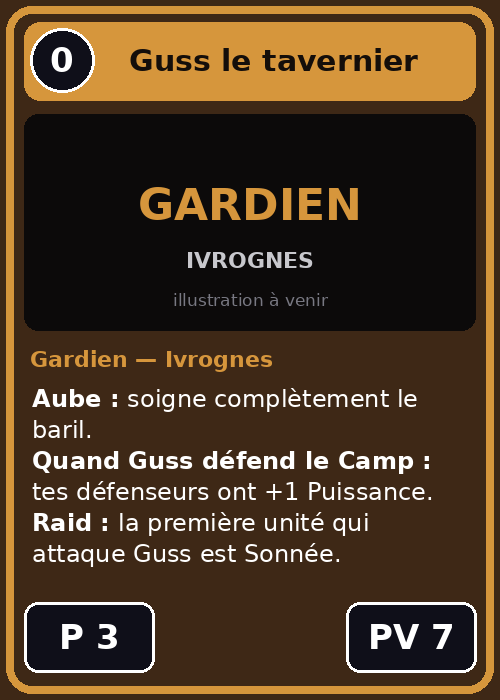
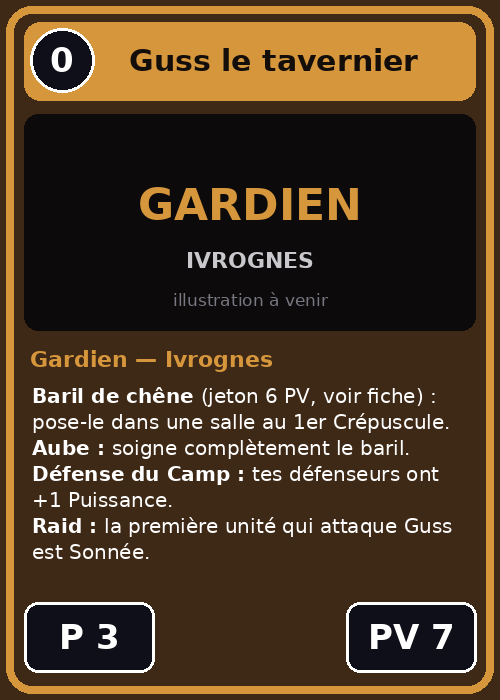
Gardien = identité : Baril et Livre de recettes deviennent des fiches (jetons) liées au Gardien ; Rosa, Belladone, Sylve ; plateau : Camp entre Expédition et Gardien, piles à côté de leur zone
Claude-Session: https://claude.ai/code/session_01Ei1ETxKFF4cSM4RwXRQ4jQ

Changed region(s): [[0.06, 0.54, 0.9, 0.81]]

diff --git a/tools/generate.py b/tools/generate.py
@@ -49,13 +49,7 @@ CARDS = [
       "**Maître de guilde** : à chaque tour, si le baril est endommagé, Guss le soigne complètement. "
       "**Patron du bar** : quand Guss défend le Camp, tes défenseurs ont +1 Puissance. "
       "**Coup de torchon** : la première unité qui attaque Guss pendant un raid est Sonnée.",
-      3, 7, legal=1),
-    C("baril", "Le baril", "Baril", 0, IVR,
-      "Un seul baril, posé dans une salle au premier Crépuscule ; ne rentre jamais au Camp. "
-      "**Aura** : tes unités de sa salle ont +1 Puissance. **Encaisser** : il peut prendre les dégâts "
-      "d'une de tes unités de sa salle. **Tirer une pinte** : 1 fois par tour, retire-lui 1 PV pour piocher "
-      "1 carte de la Cave. **Explosion** à 0 PV : 1 dégât à tout ce qui est dans la salle.",
-      0, 6, legal=1),
+      3, 7, legal=1, tokens=["baril-chene"]),
     # --- Ivrognes : unités ---
     C("habitue", "Habitué du bar", "Unite", 1, IVR, "**Près du baril** : +1 PV.", 1, 2),
     C("serveuse", "Serveuse", "Unite", 2, IVR, "**Arrivée** : une de tes unités gagne +1/+1.", 1, 3),
@@ -102,16 +96,7 @@ CARDS = [
       "garde-en 2 sous Cernun (panier de 4 max), remets le 3e dans le Garde-manger et mélange. Chaque monstre tué par tes unités : "
       "+1 ingrédient. **Cuisine** : au début du Crépuscule, 1 recette du Livre. "
       "**Bosquet** : quand Cernun défend le Camp, invoque 2 Pousses qui défendent avec lui.",
-      2, 7, legal=1, tokens=["pousse"]),
-    C("livre-recettes", "Livre de recettes", "Recettes", 0, DRU,
-      "1 recette par tour, au début du Crépuscule ; effet jusqu'à la fin du tour. Les ingrédients "
-      "retournent dans le Garde-manger, puis mélange.\n"
-      "**Soupe de racines** (Racine + Champignon) : tes unités +2 PV. "
-      "\n**Tarte aux baies** (Baies + Miel) : tes unités +1 Puissance. "
-      "\n**Tisane des bois** (Herbes + Miel) : soigne tes unités d'une salle, elles ne peuvent pas être Sonnées. "
-      "\n**Poêlée des esprits** (Champignon + Herbes + Baies) : 1 Pousse dans chaque salle où tu as une unité. "
-      "\n**Banquet de Cernun** (4 ingrédients différents) : tes unités +2/+2.",
-      legal=1, tokens=["pousse"]),
+      2, 7, legal=1, tokens=["livre-ancien", "pousse"]),
     # --- Druides : le Garde-manger (Réserve de faction) ---
     C("champignon", "Champignon", "Ingredient", 0, DRU, "**Ingrédient**. Seul, il ne fait rien : il se cuisine avec le Livre de recettes."),
     C("baies", "Baies", "Ingredient", 0, DRU, "**Ingrédient**. Seules, elles ne font rien : elles se cuisinent avec le Livre de recettes."),
@@ -167,10 +152,23 @@ CARDS = [
       "Frappe d'abord la guilde qui a le plus de trésors.", 8, 20, legal=False, token=True),
 ]
 
-# Textes de cartes (règles d'écriture : une ligne par effet, le moment en gras)
+
+# --- Gardiens supplémentaires et fiches (jetons, pas dans les decks) ---
+CARDS += [
+    C("rosa", "Rosa la brasseuse", "Gardien", 0, IVR, "", 3, 6, legal=1, tokens=["baril-explosif"]),
+    C("belladone", "Belladone", "Gardien", 0, DRU, "", 1, 6, legal=1, tokens=["livre-empoisonneur"]),
+    C("sylve", "Sylve", "Gardien", 0, DRU, "", 2, 5, legal=1, tokens=["livre-secret", "loup"]),
+    C("baril-chene", "Baril de chêne", "Baril", 0, IVR, "", 0, 6, legal=False, token=True),
+    C("baril-explosif", "Baril explosif", "Baril", 0, IVR, "", 0, 4, legal=False, token=True),
+    C("livre-ancien", "Livre ancien", "Recettes", 0, DRU, "", legal=False, token=True),
+    C("livre-empoisonneur", "Livre empoisonneur", "Recettes", 0, DRU, "", legal=False, token=True),
+    C("livre-secret", "Livre secret", "Recettes", 0, DRU, "", legal=False, token=True),
+]
+_BAR = ("**Aura :** tes unités de sa salle ont +1 Puissance.\n**Encaisser :** prend les dégâts d'une de tes unités de sa salle.\n"
+        "**Tirer une pinte :** 1 fois par tour, perds 1 PV pour piocher 1 carte de la Cave.\n")
+
+# Textes de cartes (une ligne par effet, le moment en gras)
 TEXTS = {
- "guss": "**Aube :** soigne complètement le baril.\n**Quand Guss défend le Camp :** tes défenseurs ont +1 Puissance.\n**Raid :** la première unité qui attaque Guss est Sonnée.",
- "baril": "**Aura :** tes unités de sa salle ont +1 Puissance.\n**Encaisser :** prend les dégâts d'une de tes unités de sa salle.\n**Tirer une pinte :** 1 fois par tour, perds 1 PV pour piocher 1 carte de la Cave.\n**À 0 PV :** 1 dégât à tout ce qui est dans la salle.\nUn seul baril ; il ne rentre jamais au Camp.",
  "habitue": "**Près du baril :** +1 PV.",
  "serveuse": "**Arrivée :** une de tes unités gagne +1/+1.",
  "poker": "**Bluff :** se pose face cachée au Midi, révélée au Crépuscule.",
@@ -190,8 +188,7 @@ TEXTS = {
  "vin-chaud": "**Alcool.** Soigne complètement l'unité.",
  "absinthe": "**Alcool.** +3 Puissance.\n**Ton tour suivant :** l'unité perd 2 PV.",
  "liqueur-feu": "**Alcool.**\n**Dernier souffle :** 2 dégâts à chaque ennemi de sa salle.",
- "cernun": "**Aube :** Cueillette. Pioche 3 cartes de ta Réserve, garde-en 2 sous Cernun (4 max), remets l'autre et mélange.\n**Crépuscule :** cuisine 1 recette du Livre.\n**Monstre tué :** +1 ingrédient.\n**Quand il défend le Camp :** invoque 2 Pousses.",
- "livre-recettes": "**Crépuscule :** 1 recette par tour, effet ce tour. Les ingrédients retournent dans la Réserve (mélange).\n**Soupe de racines** (Racine + Champignon) : tes unités +2 PV.\n**Tarte aux baies** (Baies + Miel) : tes unités +1 Puissance.\n**Tisane des bois** (Herbes + Miel) : soigne une salle, ses unités ne sont pas Sonnées.\n**Poêlée des esprits** (Champignon + Herbes + Baies) : 1 Pousse par salle où tu as une unité.\n**Banquet de Cernun** (4 ingrédients différents) : tes unités +2/+2.",
+ "cernun": "**Livre ancien** (fiche liée) : recettes de buff.\n**Aube :** Cueillette. Pioche 3 ingrédients, défausse-en 1 dans ta Réserve (mélange), garde 2 sous Cernun (4 max).\n**Crépuscule :** cuisine 1 recette.\n**Monstre tué :** +1 ingrédient.\n**Défense du Camp :** invoque 2 Pousses.",
  "champignon": "**Ingrédient.** Seul, il ne fait rien : cuisine-le avec le Livre.",
  "baies": "**Ingrédient.** Seules, elles ne font rien : cuisine-les avec le Livre.",
  "racine": "**Ingrédient.** Seule, elle ne fait rien : cuisine-la avec le Livre.",
@@ -214,8 +211,18 @@ TEXTS = {
  "eveil-foret": "Invoque une Pousse dans chaque salle.\nTes unités gagnent +1/+1 ce tour.\nPioche 1 ingrédient.\n**Signature :** 1 exemplaire max.",
  "pousse": "**Jeton.** Compte dans la limite de 3 unités par salle.",
  "loup": "**Jeton.** Compte dans la limite de 3 unités par salle.",
- "jet-chaises": "2 dégâts à une cible, qui est Sonnée."
+ "jet-chaises": "2 dégâts à une cible, qui est Sonnée.",
+ "rosa": "**Baril explosif** (jeton 4 PV, voir fiche) : pose-le dans une salle au 1er Crépuscule.\n**Aube :** soigne 2 PV au baril.\n**Tirer une pinte :** regarde 2 cartes de la Cave, prends-en 1, remets l'autre et mélange.\n**Défense du Camp :** 1 dégât à chaque attaquant.",
+ "belladone": "**Livre empoisonneur** (fiche liée) : recettes qui blessent.\n**Aube :** Cueillette. Pioche 2 ingrédients, garde-les sous Belladone (4 max).\n**Crépuscule :** cuisine 1 recette.\n**Défense du Camp :** la première unité qui attaque Belladone est Sonnée.",
+ "sylve": "**Livre secret** (fiche liée) : chaque recette donne Rapide.\n**Aube :** Cueillette. Pioche 2 ingrédients, garde-les sous Sylve (4 max).\n**Midi :** choisis ta recette face cachée.\n**Crépuscule :** révèle-la et cuisine-la.",
+ "livre-ancien": "**Crépuscule :** 1 recette par tour, effet ce tour. Les ingrédients retournent dans la Réserve (mélange).\n**Soupe de racines** (Racine + Champignon) : tes unités +2 PV.\n**Tarte aux baies** (Baies + Miel) : tes unités +1 Puissance.\n**Tisane des bois** (Herbes + Miel) : soigne une salle, ses unités ne sont pas Sonnées.\n**Poêlée des esprits** (Champignon + Herbes + Baies) : 1 Pousse par salle où tu as une unité.\n**Banquet de Cernun** (4 ingrédients différents) : tes unités +2/+2.",
+ "livre-empoisonneur": "**Crépuscule :** 1 recette par tour. Les ingrédients retournent dans la Réserve (mélange).\n**Sève amère** (Racine + Champignon) : 1 dégât à chaque ennemi d'une salle.\n**Brouet de baies** (Baies + Miel) : 2 dégâts à une cible, qui est Sonnée.\n**Fumée d'herbes** (Herbes + Champignon) : les ennemis d'une salle sont Sonnés.\n**Philtre noir** (3 ingrédients différents) : 2 dégâts à chaque ennemi d'une salle.",
+ "livre-secret": "**Midi :** 1 recette face cachée. **Crépuscule :** révèle-la et cuisine-la. Les ingrédients retournent dans la Réserve (mélange).\n**Pain de route** (Racine + Miel) : tes unités gagnent Rapide.\n**Infusion vive** (Herbes + Baies) : Rapide et +1 Puissance.\n**Festin de l'ombre** (3 ingrédients différents) : Rapide et +1/+1.\n**Rapide :** une unité peut changer de salle après son combat.",
+ "guss": "**Baril de chêne** (jeton 6 PV, voir fiche) : pose-le dans une salle au 1er Crépuscule.\n**Aube :** soigne complètement le baril.\n**Défense du Camp :** tes défenseurs ont +1 Puissance.\n**Raid :** la première unité qui attaque Guss est Sonnée."
 }
+
+TEXTS["baril-chene"] = _BAR + "**À 0 PV :** 1 dégât à tout ce qui est dans la salle.\nUn seul baril ; il ne rentre jamais au Camp."
+TEXTS["baril-explosif"] = _BAR + "**À 0 PV :** 3 dégâts à tout ce qui est dans la salle.\nUn seul baril ; il ne rentre jamais au Camp."
 for _c in CARDS:
     if _c["id"] in TEXTS:
         _c["text"] = TEXTS[_c["id"]]
